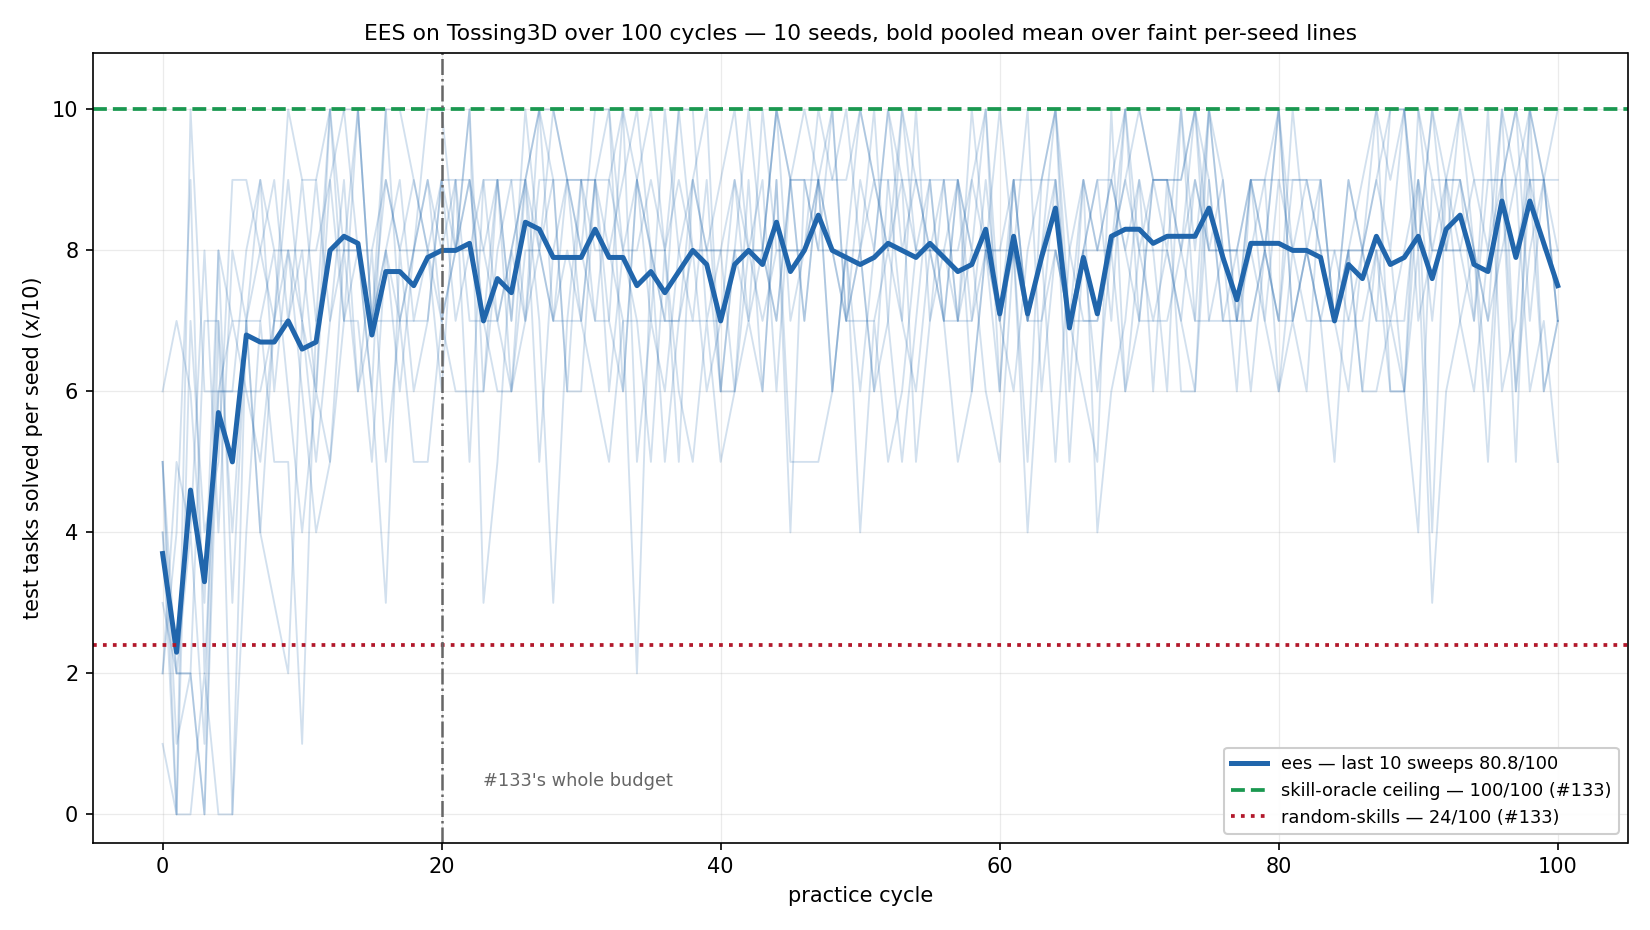
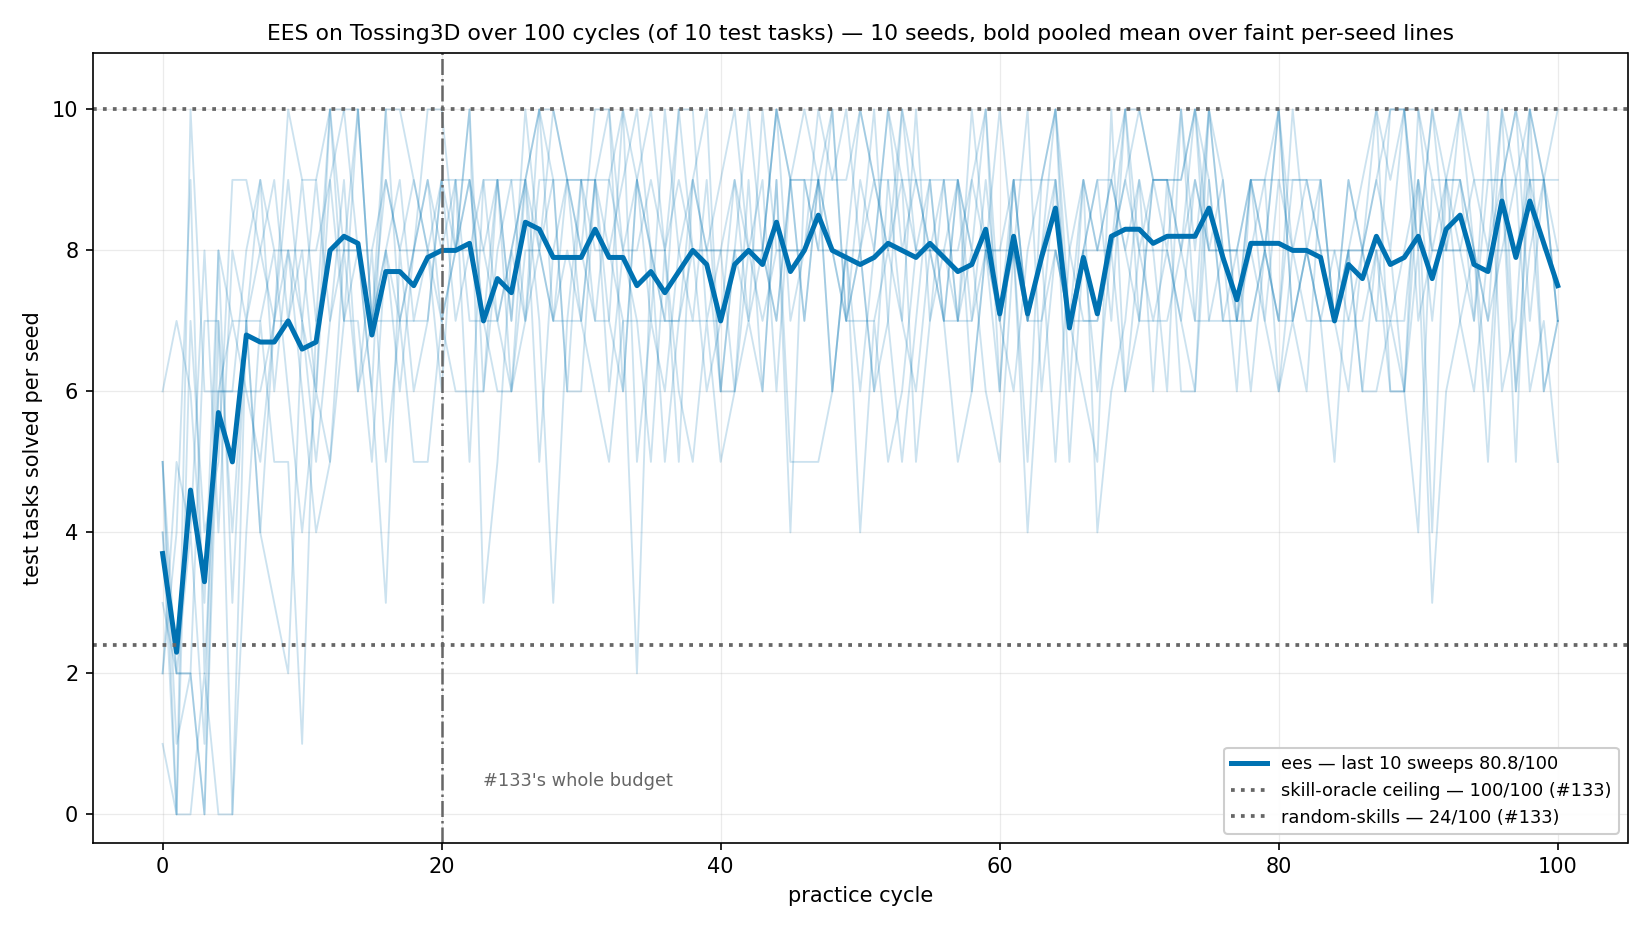
Regenerate #133/#178/#184's Tossing3D figures to the training-curve-style convention (#188)
Same data, same conclusions -- only colour/label style changes. Recolours
tossing3d_ees_arms.py, tossing3d_plateau.py and tossing3d_reset_free_arms.py to CLAUDE.md's
"Training-curve style, fixed project-wide" section, strips the (x/N) axis-label suffix into
panel/figure titles, and regenerates the eight PNGs those three modules produce -- verified
byte-for-byte number match against each committed .md log (Fisher p, MDE, per-seed counts)
before committing new bytes.

Claude-Session: https://claude.ai/code/session_01YX4kv9fLBKzvmm3w25BvHF

diff --git a/analysis/practice_makes_perfect/tossing3d_reset_free_arms.py b/analysis/practice_makes_perfect/tossing3d_reset_free_arms.py
@@ -67,7 +67,15 @@ RANDOM_SKILLS_PER_SEED = 2.4
 ORACLE_LABEL = "skill-oracle ceiling — 100/100 (#133)"
 RANDOM_SKILLS_LABEL = "random-skills — 24/100 (#133)"
 
-_ARM_COLOURS = {SCHEDULED: "#2166ac", NEVER: "#d6604d"}
+# CLAUDE.md's training-curve-style section (#188): this figure has the genuine
+# reset/scheduled-vs-reset-free/never axis the convention is written for, so `SCHEDULED`
+# takes the exact spec blue and `NEVER` the exact spec orange (previously `#2166ac` /
+# `#d6604d`, close but not the literal spec hex).
+_ARM_COLOURS = {SCHEDULED: "#0072B2", NEVER: "#D55E00"}
+# The one neutral reserved for reference/ceiling arms (`skill-oracle`, `random-skills`),
+# distinguished from each other only by legend label/y-level, never by hue -- previously
+# green `#1a9850` dashed and purple `#762a83` dotted.
+_REFERENCE_COLOUR = "#666666"
 
 
 class Tossing3DResetFree:
@@ -349,11 +357,15 @@ class Tossing3DResetFree:
                 label=f"{arm} — last {WINDOW} sweeps {x:.1f}/{y}",
             )
         axes.axhline(
-            ORACLE_PER_SEED, color="#1a9850", linestyle="--", linewidth=1.8, label=ORACLE_LABEL
+            ORACLE_PER_SEED,
+            color=_REFERENCE_COLOUR,
+            linestyle=":",
+            linewidth=1.8,
+            label=ORACLE_LABEL,
         )
         axes.axhline(
             RANDOM_SKILLS_PER_SEED,
-            color="#762a83",
+            color=_REFERENCE_COLOUR,
             linestyle=":",
             linewidth=1.8,
             label=RANDOM_SKILLS_LABEL,
@@ -361,9 +373,10 @@ class Tossing3DResetFree:
         axes.grid(alpha=0.25, linewidth=0.6)
         axes.set_ylim(-num_total * 0.04, num_total * 1.08)
         axes.set_xlabel("practice cycle")
-        axes.set_ylabel(f"test tasks solved per seed (x/{num_total})")
+        # No `(x/N)` suffix on the axis label (#188) -- the denominator moves into the title.
+        axes.set_ylabel("test tasks solved per seed")
         axes.set_title(
-            "Reset-free against scheduled practice on Tossing3D — "
+            f"Reset-free against scheduled practice on Tossing3D (of {num_total} test tasks) — "
             "bold pooled mean over faint per-seed lines",
             fontsize=10.5,
         )
@@ -390,6 +403,12 @@ class Tossing3DResetFree:
         test = PairedTests.sign_flip(differences=differences)
         mde = PairedTests.minimum_detectable_effect(differences=differences)
 
+        # Per-seed lines are coloured by direction of change (fell vs held/rose), not by arm
+        # identity -- the same judgement as tossing3d_plateau.py's render_windows: a paired
+        # before/after diff is a different kind of chart from the learning curves the
+        # training-curve style section governs, so it keeps its pre-existing direction
+        # colours rather than being remapped onto the SCHEDULED/NEVER arm palette, which
+        # would misleadingly suggest this axis encodes an arm rather than a sign.
         fig, axes = plt.subplots(1, 1, figsize=(7.4, 6.2))
         for seed in seeds:
             fell = late[NEVER][seed] < late[SCHEDULED][seed]
@@ -403,11 +422,15 @@ class Tossing3DResetFree:
                 linewidth=1.4,
             )
         axes.axhline(
-            ORACLE_PER_SEED, color="#1a9850", linestyle="--", linewidth=1.6, label=ORACLE_LABEL
+            ORACLE_PER_SEED,
+            color=_REFERENCE_COLOUR,
+            linestyle=":",
+            linewidth=1.6,
+            label=ORACLE_LABEL,
         )
         axes.axhline(
             RANDOM_SKILLS_PER_SEED,
-            color="#762a83",
+            color=_REFERENCE_COLOUR,
             linestyle=":",
             linewidth=1.6,
             label=RANDOM_SKILLS_LABEL,
@@ -419,12 +442,11 @@ class Tossing3DResetFree:
         ])
         axes.set_xlim(-0.25, 1.25)
         axes.set_ylim(-num_total * 0.04, num_total * 1.08)
-        axes.set_ylabel(
-            f"mean test tasks solved per seed over last {WINDOW} sweeps (x/{num_total})"
-        )
+        # No `(x/N)` suffix on the axis label (#188) -- the denominator moves into the title.
+        axes.set_ylabel(f"mean test tasks solved per seed over last {WINDOW} sweeps")
         fell_count = sum(1 for d in differences if d < 0)
         axes.set_title(
-            f"What does a genuinely reset-free arm cost?\n"
+            f"What does a genuinely reset-free arm cost? (of {num_total} test tasks)\n"
             f"fell on {fell_count}/{len(differences)} seeds, "
             f"mean {statistics.fmean(differences):+.2f} tasks, "
             f"p = {test.p_value:.4g}, MDE {mde:.2f}",
@@ -507,6 +529,19 @@ class Tossing3DResetFree:
             same_onset = sum(1 for o in onsets.values() if o == marked_onset)
             total_seeds = len(onsets)
 
+            # This purple (`#762a83`) deliberately stays -- decided, not left by omission.
+            # Before this change it was a real instance of "one hue meaning two different
+            # things in one report": the same `#762a83` also coloured the NEVER-arm
+            # `random-skills` reference line just above. That collision is what #188's rule
+            # exists to cure, and it is gone now that the reference lines moved to
+            # `_REFERENCE_COLOUR`. What remains is a single, now-unique use marking a
+            # specific *event* (the stranding onset / last Toss), not an *arm* -- a
+            # different semantic the training-curve-style section does not govern. Recolouring
+            # it to the reference grey would blend a "look here, something happened" marker
+            # into the "this is a flat, uninteresting ceiling" role grey is reserved for, and
+            # `_REFERENCE_COLOUR` (`#666666`) is already doing a third, different job in this
+            # same figure (`dist_axes`'s median line, below) -- so a genuinely distinct
+            # highlight colour carries more information here than reuse would.
             axes.axvspan(
                 marked_onset,
                 len(next(iter(never_curves.values()))) - 1,

diff --git a/analysis/practice_makes_perfect/tossing3d_plateau.py b/analysis/practice_makes_perfect/tossing3d_plateau.py
@@ -67,6 +67,14 @@ RANDOM_SKILLS_PER_SEED = 2.4
 ORACLE_LABEL = "skill-oracle ceiling — 100/100 (#133)"
 RANDOM_SKILLS_LABEL = "random-skills — 24/100 (#133)"
 
+# CLAUDE.md's training-curve-style section (#188): reference/ceiling arms that are not the
+# manipulation under test share one neutral grey, dotted -- distinguished from each other
+# only by legend label/y-level, never by hue. `ees` (the one arm under test here) gets the
+# spec blue; there is no reset-free counterpart on this figure (single policy, no reset
+# axis), so orange is not used at all.
+_EES_COLOUR = "#0072B2"
+_REFERENCE_COLOUR = "#666666"
+
 
 class Tossing3DPlateau:
     """A static-method container, never instantiated, same as every other
@@ -186,7 +194,7 @@ class Tossing3DPlateau:
             axes.plot(
                 cycles,
                 [solved for _t, solved, _n in curves[seed]],
-                color="#2166ac",
+                color=_EES_COLOUR,
                 alpha=0.20,
                 linewidth=0.9,
             )
@@ -202,16 +210,20 @@ class Tossing3DPlateau:
         axes.plot(
             cycles,
             pooled,
-            color="#2166ac",
+            color=_EES_COLOUR,
             linewidth=2.4,
             label=f"ees — last {WINDOW} sweeps {late_x:.1f}/{late_y}",
         )
         axes.axhline(
-            ORACLE_PER_SEED, color="#1a9850", linestyle="--", linewidth=1.8, label=ORACLE_LABEL
+            ORACLE_PER_SEED,
+            color=_REFERENCE_COLOUR,
+            linestyle=":",
+            linewidth=1.8,
+            label=ORACLE_LABEL,
         )
         axes.axhline(
             RANDOM_SKILLS_PER_SEED,
-            color="#b2182b",
+            color=_REFERENCE_COLOUR,
             linestyle=":",
             linewidth=1.8,
             label=RANDOM_SKILLS_LABEL,
@@ -227,9 +239,10 @@ class Tossing3DPlateau:
         axes.grid(alpha=0.25, linewidth=0.6)
         axes.set_ylim(-num_total * 0.04, num_total * 1.08)
         axes.set_xlabel("practice cycle")
-        axes.set_ylabel(f"test tasks solved per seed (x/{num_total})")
+        # No `(x/N)` suffix on the axis label (#188) -- the denominator moves into the title.
+        axes.set_ylabel("test tasks solved per seed")
         axes.set_title(
-            f"EES on Tossing3D over 100 cycles — {len(curves)} seeds, "
+            f"EES on Tossing3D over 100 cycles (of {num_total} test tasks) — {len(curves)} seeds, "
             f"bold pooled mean over faint per-seed lines",
             fontsize=10.5,
         )
@@ -260,6 +273,12 @@ class Tossing3DPlateau:
         test = PairedTests.sign_flip(differences=differences)
         mde = PairedTests.minimum_detectable_effect(differences=differences)
 
+        # Per-seed lines are coloured by direction of change (rose vs fell), not by arm
+        # identity -- this is a paired before/after diff (like reset_free_cycle_budget.py's
+        # render_gap), a different kind of chart from the learning curves the training-curve
+        # style section governs, and there is only one arm (`ees`) here regardless. Left as
+        # its pre-existing direction colours rather than remapped onto the arm palette, which
+        # would misleadingly suggest this axis encodes an arm rather than a sign.
         fig, axes = plt.subplots(1, 1, figsize=(7.4, 6.2))
         for seed in sorted(curves):
             rose = late[seed] > reference[seed]
@@ -273,11 +292,15 @@ class Tossing3DPlateau:
                 linewidth=1.4,
             )
         axes.axhline(
-            ORACLE_PER_SEED, color="#1a9850", linestyle="--", linewidth=1.6, label=ORACLE_LABEL
+            ORACLE_PER_SEED,
+            color=_REFERENCE_COLOUR,
+            linestyle=":",
+            linewidth=1.6,
+            label=ORACLE_LABEL,
         )
         axes.axhline(
             RANDOM_SKILLS_PER_SEED,
-            color="#b2182b",
+            color=_REFERENCE_COLOUR,
             linestyle=":",
             linewidth=1.6,
             label=RANDOM_SKILLS_LABEL,
@@ -289,10 +312,11 @@ class Tossing3DPlateau:
         ])
         axes.set_xlim(-0.25, 1.25)
         axes.set_ylim(-num_total * 0.04, num_total * 1.08)
-        axes.set_ylabel(f"mean test tasks solved per seed (x/{num_total})")
+        # No `(x/N)` suffix on the axis label (#188) -- the denominator moves into the title.
+        axes.set_ylabel("mean test tasks solved per seed")
         rose_count = sum(1 for d in differences if d > 0)
         axes.set_title(
-            f"Does it still climb after #133's budget?\n"
+            f"Does it still climb after #133's budget? (of {num_total} test tasks)\n"
             f"rose on {rose_count}/{len(differences)} seeds, "
             f"mean {statistics.fmean(differences):+.2f} tasks, "
             f"p = {test.p_value:.4g}, MDE {mde:.2f}",

diff --git a/analysis/practice_makes_perfect/tossing3d_ees_arms.py b/analysis/practice_makes_perfect/tossing3d_ees_arms.py
@@ -115,15 +115,19 @@ SIGNIFICANCE = 0.05
 
 _ARM_ORDER = ("ees", "random-skills", "skill-oracle")
 
-# Okabe-Ito, the same palette every sibling report in this folder declares for itself
-# (`reset_free_training_curves`; the Tossing Room reports that also declared it were
-# retired with their domains in #141). It
-# replaces matplotlib's default blue/grey/green, which is not colourblind-safe and did
-# not match the sibling figures. Blue is the arm under test, vermillion the uniform
-# baseline, bluish-green the ceiling -- and the three are also distinguished by role in
-# the drawing (curve, curve, dashed horizontal line), so colour is never doing the work
-# alone.
-_ARM_COLOURS = {"ees": "#0072B2", "random-skills": "#D55E00", "skill-oracle": "#009E73"}
+# CLAUDE.md's "Training-curve style, fixed project-wide" (#188): colour carries the arm's
+# role. Unlike the reset/scheduled-vs-never comparisons elsewhere in this folder, this
+# experiment has no reset axis at all -- it is `ees` (the manipulation under test) against
+# `random-skills` (an uninformed policy that still practises across all 21 checkpoints and
+# has a real, divergent shape -- see the module docstring on why cycles and transitions get
+# two separate graphs) against `skill-oracle` (the one arm that never practises: a single
+# evaluation, drawn flat). So here colour-carries-role reads as "informed policy" (blue) vs
+# "uninformed-but-still-learning reference policy" (orange) -- not the reset/never role
+# those other figures use blue/orange for -- and grey/dotted is reserved for the one arm
+# that is genuinely static: `skill-oracle`. `random-skills` was already `#D55E00` and `ees`
+# already `#0072B2`, both already the exact spec hex; only `skill-oracle` moves, off its
+# old bluish-green `#009E73` and onto the spec neutral.
+_ARM_COLOURS = {"ees": "#0072B2", "random-skills": "#D55E00", "skill-oracle": "#666666"}
 
 # Per-seed lines are what the figure exists for, but ten of them at full strength hide
 # the mean. Matched to `reset_free_training_curves` so the two figures read as one system.
@@ -674,7 +678,7 @@ class Tossing3DEesArms:
                     axis.axhline(
                         solved / total * size if size else 0.0,
                         color=colour,
-                        linestyle="--",
+                        linestyle=":",
                         linewidth=2.0,
                         label=f"{arm} (ceiling) — {solved}/{total}",
                     )
@@ -712,13 +716,17 @@ class Tossing3DEesArms:
             axis.set_xticks(list(Tossing3DEesArms._cycle_ticks(axis=axis)))
         else:
             axis.set_xlabel("online transitions during practice (evaluation sweeps not charged)")
-        axis.set_ylabel(
-            f"test tasks solved per evaluation (x/{denominator})"
-            if denominator
-            else "test tasks solved per evaluation"
-        )
+        # No `(x/N)` suffix on the axis label (CLAUDE.md's training-curve-style section,
+        # #188) -- the denominator is stated once in the panel title instead of repeating
+        # on every tick.
+        axis.set_ylabel("test tasks solved per evaluation")
         axis.set_title(
-            "Learning curves, per seed — "
+            (
+                f"Learning curves, per seed (of {denominator})"
+                if denominator
+                else "Learning curves, per seed"
+            )
+            + " — "
             + ("cycles are the controlled variable" if by_cycles else "transitions are an outcome"),
             loc="left",
             fontsize=11,
@@ -793,13 +801,11 @@ class Tossing3DEesArms:
         size = Tossing3DEesArms.evaluation_size(runs=arms.get(present[0], [])) if present else 0
         axis.set_xticks(range(len(present)))
         axis.set_xticklabels(present)
-        axis.set_ylabel(
-            f"test tasks solved at end of training (x/{size})"
-            if size
-            else "test tasks solved at end of training"
-        )
+        # No `(x/N)` suffix on the axis label (#188) -- the denominator moves into the title.
+        axis.set_ylabel("test tasks solved at end of training")
+        title = "Task success" + (f" (of {size})" if size else "")
         axis.set_title(
-            "Task success (context only — not an input to the verdict)", loc="left", fontsize=11
+            f"{title} — context only, not an input to the verdict", loc="left", fontsize=11
         )
         axis.set_ylim(0, (size or 10) * 1.12)
         axis.grid(axis="y", alpha=0.25, linewidth=0.6)
